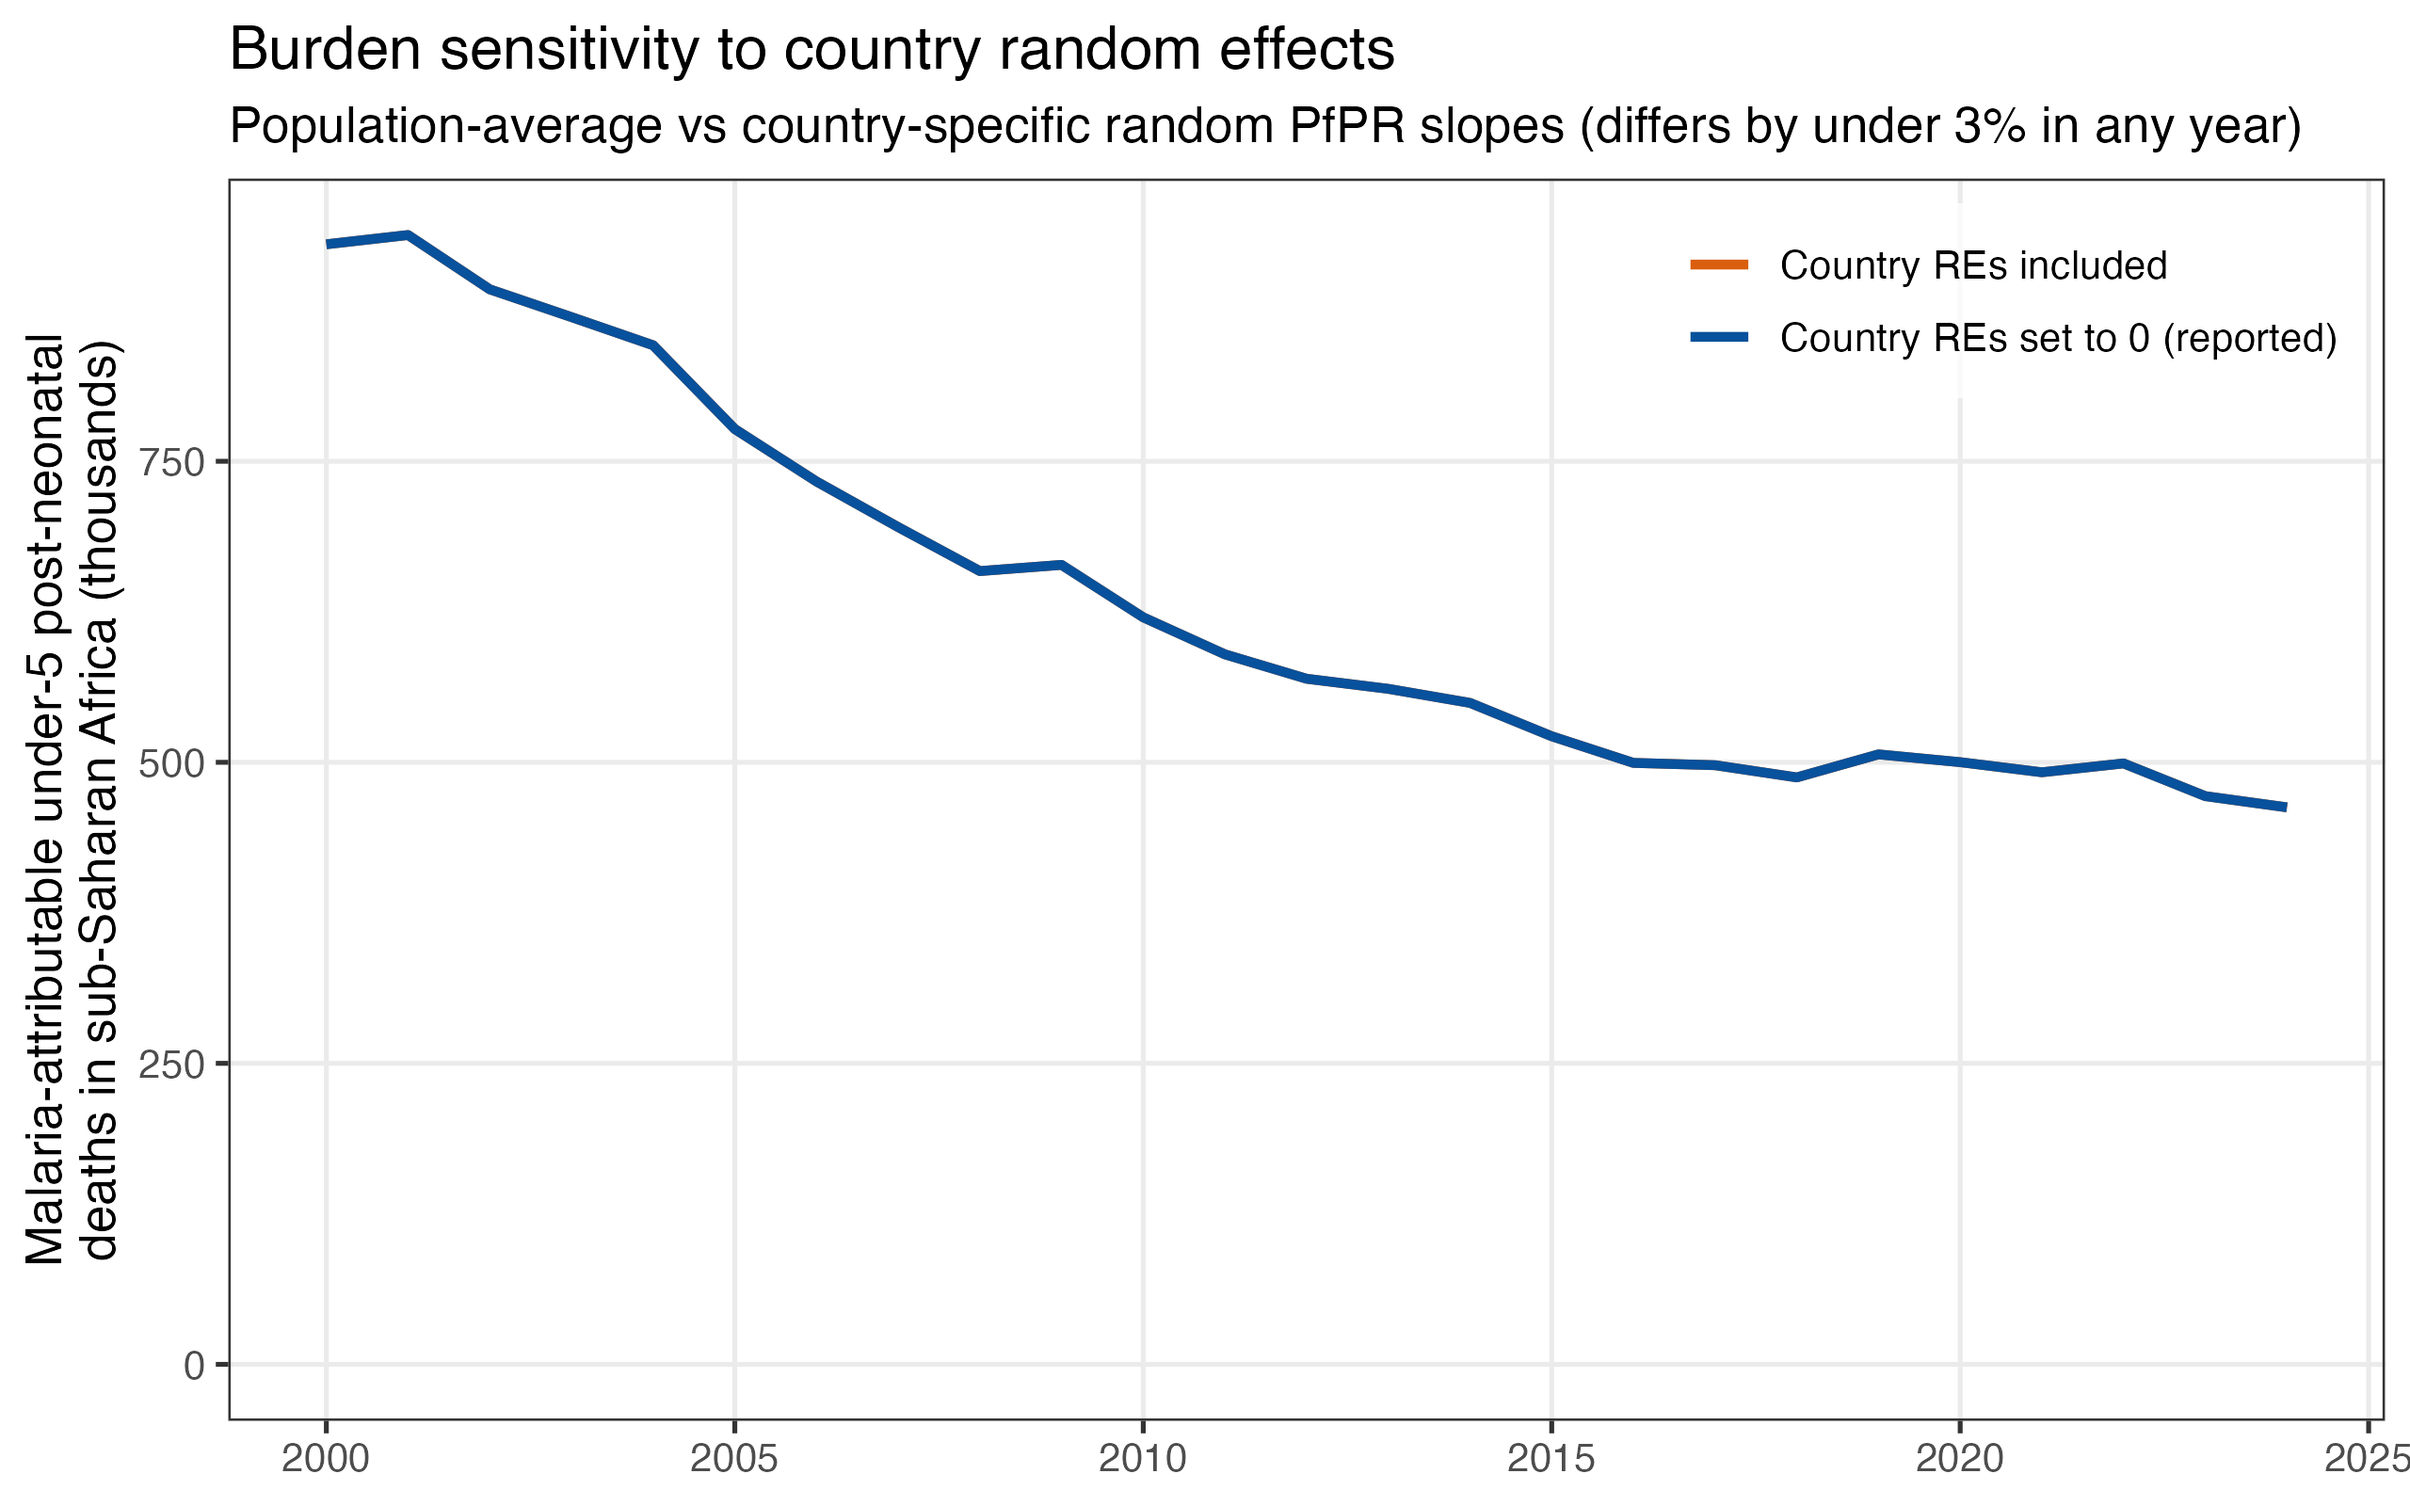
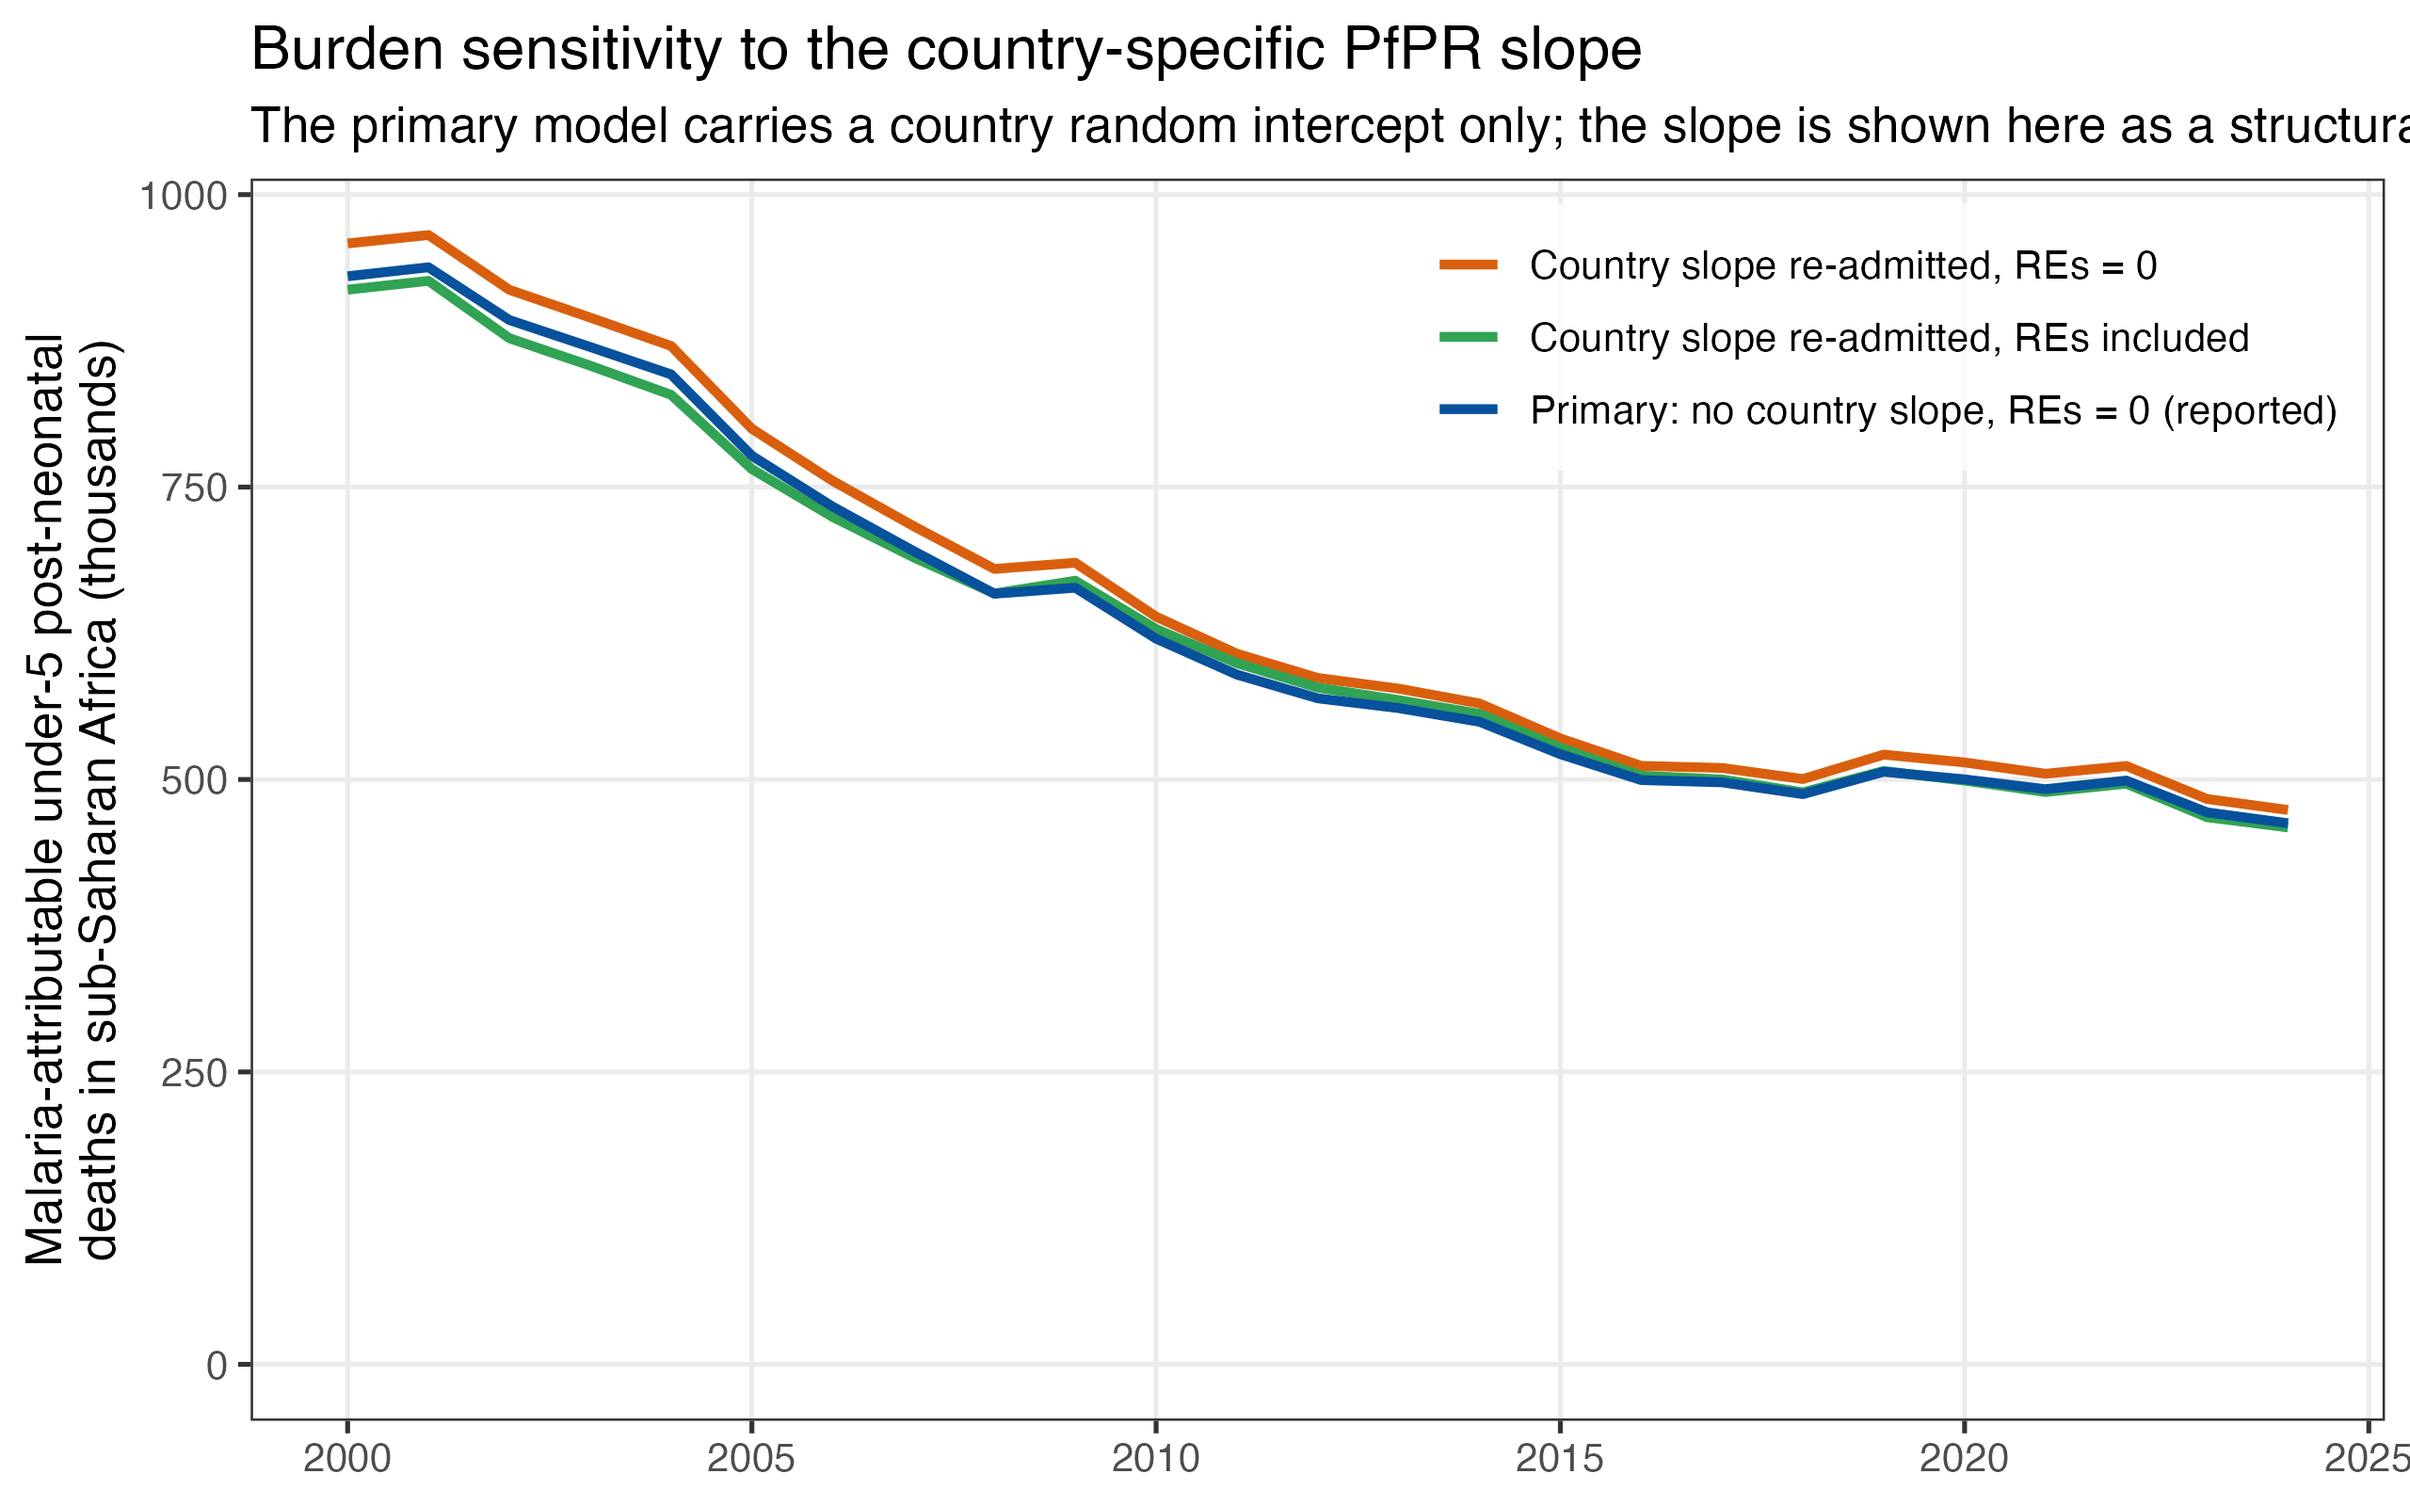
Repair what the country-slope removal silently broke
An independent audit of the previous commit found one blocking defect and a set
of stale descriptions. Confirmed the blocking one directly before acting on it.

16_sensitivity_random_effects.R had become a no-op that reported a fabricated
result. Its premise was that in the attributable-fraction contrast (national
PfPR against a 1% counterfactual, same country and year) the country random
INTERCEPT cancels exactly, so the random PfPR slope was the only term that could
move the answer. Remove the slope and the two curves it compares are identical
by construction: the just-completed run wrote diff_pct = 0 for all 25 years and
a difference of 0 for every country, under a figure subtitle claiming the two
"differ by under 3% in any year". Nothing errored, and run_all executes it, so
that zero would have been read as a real sensitivity result.

Rewritten to compare two MODELS rather than two predictions from one, which is
the question that still has content and the one that bears on whether to keep
the change:

  primary_population      reported model, country REs zeroed
  with_slope_population   same specification refitted WITH the slope, REs zeroed
  with_slope_re_included  that refit with each in-sample country's own REs

Re-admitting the slope moves the reported burden by at most 3.2% in any year
(+2.9% cumulative), and within the with-slope model including country REs moves
it by at most 4.8%. So the burden is robust to this choice even though the
[…]

diff --git a/R_dhs/MANUSCRIPT_ALIGNMENT.md b/R_dhs/MANUSCRIPT_ALIGNMENT.md
@@ -20,8 +20,11 @@ IHME/WHO comparisons and trial triangulation are outside this rebuild.
   spline), the neonatal prevalence smooth is linear (edf 1.00) and null
   (p=0.37).
 - All primary models use a negative-binomial likelihood, log-exposure offset,
-  smooth calendar year, country random intercepts and country random linear
-  PfPR slopes.
+  smooth calendar year and country random intercepts. The country-specific
+  random PfPR slope was removed from the primary structure (see
+  INCLUDE_COUNTRY_PFPR_SLOPE in 00_config.R) and is carried only as a
+  structural sensitivity, in script 07 (arm `with_country_pfpr_slope`) and
+  script 15 (arm "With country PfPR random slope").
 
 ## Statements requiring revision
 

diff --git a/R_dhs/README.md b/R_dhs/README.md
@@ -36,7 +36,7 @@ that should be updated in the current manuscript after the rebuild is accepted.
   eligible block is ridge penalised.
 - Model comparison: linear versus spline PfPR, each with versus without a
   PfPR-by-calendar-time interaction, plus a full `te(PfPR, year)` surface. All
-  include country random intercepts, random linear PfPR slopes and a
+  include country random intercepts and a
   log-exposure offset. The four decomposed specifications include a separate
   smooth calendar-year term; the full tensor surface contains the year main
   effect.
